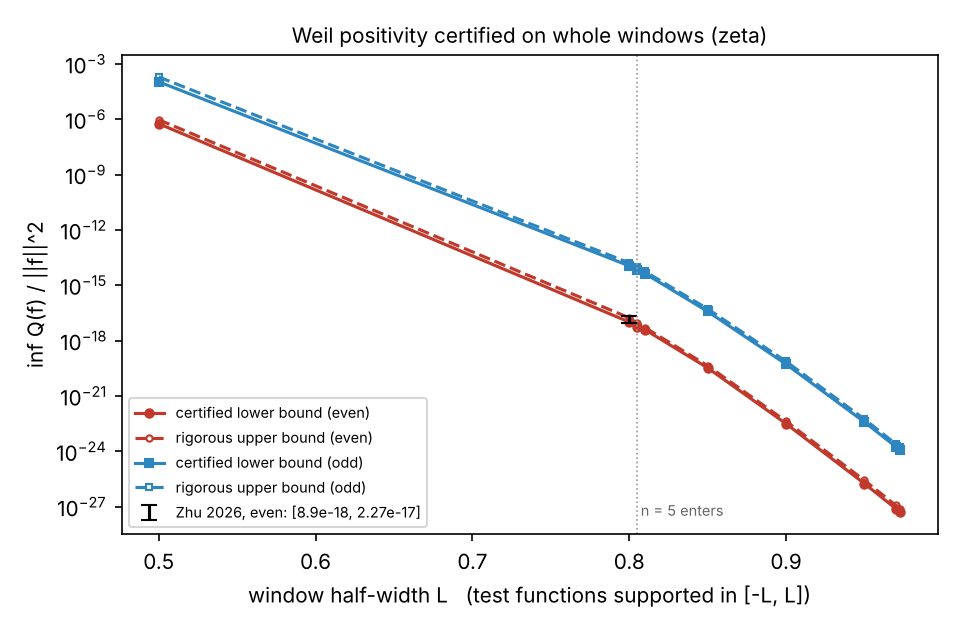
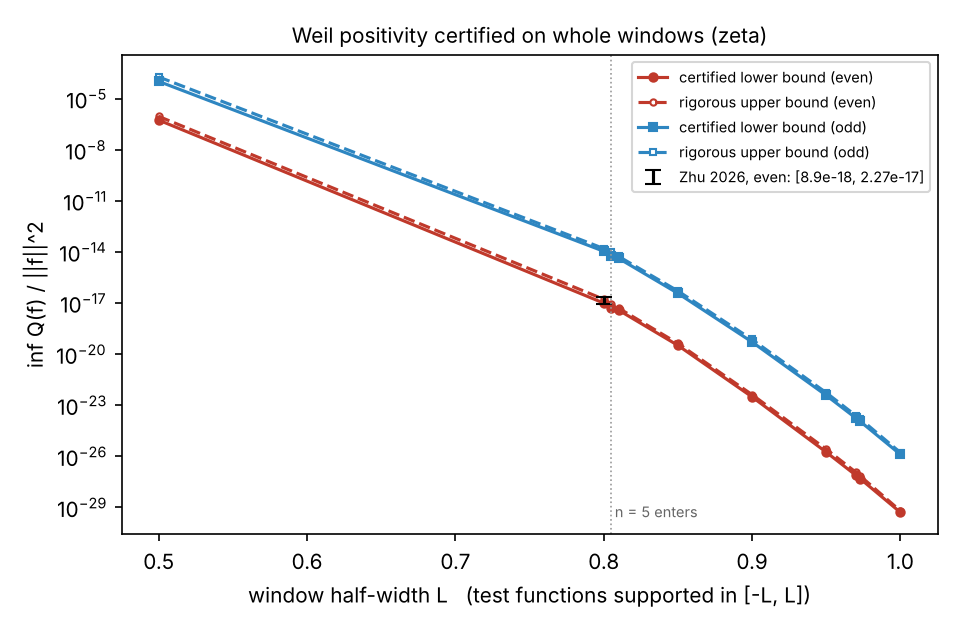
E13 complete: Weil positivity certified on the whole window [-1, 1]
L = 1 (comb {2, 3, 4, 5, 7}, A_L = 5.852, T = 2600, 1909 Legendre modes per
sector, 55 digits), envelope reduction in ball arithmetic:
  even: Q(f) >= 5.1369e-30 ||f||^2   (residual 1.6e-45, eps_B 1.0e-128, 45 min)
  odd:  Q(f) >= 1.2954e-26 ||f||^2   (eps_B 3.5e-129, 54 min)
so Q(f) >= 5.137e-30 ||f||^2 for every real f supported in [-1, 1]
(Machine-checked).  Rigorous upper bounds from explicit polynomials
(weil_certificate): 6.2828e-30 (even), 1.6787e-26 (odd), so the infimum is
enclosed within 22% / 30%.  The odd run was repeated after a container
restart killed it; both rows record their parameters and timings.

The certified window grows from 0.8 (Zhu 2026, the largest we found) to 1.
Docs: E13 table and statement, findings item 1c, README highlight, the log's
closing summary, CLAUDE.md state and next steps.

Claude-Session: https://claude.ai/code/session_01WmTJynmdhAQB1SR6orAvL8

diff --git a/docs/06_experiment_log.md b/docs/06_experiment_log.md
@@ -417,7 +417,7 @@ For every $\delta\ge0.01$ tried, $e^{2a^*}\le0.9\gamma_0$: primes up to the heig
 
 **Statement (Machine-checked).** For each window $L$ in the table below and every real $f\in L^2$ supported in $[-L,L]$, the arithmetic side of Weil's quadratic form satisfies $Q(f)\ge c\,\lVert f\rVert^2$. Here $c=\min(c_{\rm even},c_{\rm odd})>0$ is certified in ball arithmetic. The form is
 $$Q(f)=2F(\tfrac i2)F(-\tfrac i2)+\frac1{2\pi}\int_{\mathbb R}|F(t)|^2\,\Psi_L(t)\,dt,$$
-with $F=\hat f$ and $\Psi_L(t)=\Re\psi(\tfrac14+\tfrac{it}2)-\log\pi-\sum_{\log n<2L}\frac{2\Lambda(n)}{\sqrt n}\cos(t\log n)$. It may take the value $+\infty$. Only the prime powers $n<e^{2L}$ and the Gamma factor enter; no zero of ζ is used. Weil's criterion says RH holds if and only if this positivity holds for every $L$. Positivity on $[-L,L]$ implies it on every smaller window. **The largest window certified here is $[-0.9729, 0.9729]$** (and $[-1,1]$ if the extended run below succeeds). The previous record we could find was $[-0.8,0.8]$ (Zhu 2026, arXiv:2608.24827v2).
+with $F=\hat f$ and $\Psi_L(t)=\Re\psi(\tfrac14+\tfrac{it}2)-\log\pi-\sum_{\log n<2L}\frac{2\Lambda(n)}{\sqrt n}\cos(t\log n)$. It may take the value $+\infty$. Only the prime powers $n<e^{2L}$ and the Gamma factor enter; no zero of ζ is used. Weil's criterion says RH holds if and only if this positivity holds for every $L$. Positivity on $[-L,L]$ implies it on every smaller window. **The largest window certified here is $[-1,1]$**, with $c=5.1369\times10^{-30}$ there; only $n\in\{2,3,4,5,7\}$ and the Gamma factor enter. The previous record we could find was $[-0.8,0.8]$ (Zhu 2026, arXiv:2608.24827v2).
 
 **Method: Zhu's envelope reduction, rebuilt in interval arithmetic.** We read Zhu's paper through WebFetch summaries of its arXiv abstract and HTML full text, not the PDF.
 * *Envelope.* $\Omega(t)=\Re\psi(\tfrac14+\tfrac{it}2)-\log\pi$ increases on $t>0$, because $\Im\psi'<0$ in the upper half-plane. With $|\cos|\le1$ this gives $\Psi_L(t)\ge\beta:=\Omega(T)-A_L$ for $t\ge T$, where $A_L=\sum_{\log n<2L}2\Lambda(n)/\sqrt n$ is the comb constant.
@@ -452,7 +452,7 @@ Zhu's own lower bound used a-priori error bounds and a verified floating-point C
 | 0.95 | 2, 3, 4, 5 | 4.381 | 600/600 | ≤ 1009 | $1.7700\times10^{-26}$ | $2.6438\times10^{-26}$ | $3.8265\times10^{-23}$ | $5.5097\times10^{-23}$ |
 | 0.97 | 2, 3, 4, 5 | 4.381 | 600/600 | ≤ 1029 | $7.7733\times10^{-28}$ | $1.1684\times10^{-27}$ | $1.7681\times10^{-24}$ | $2.4735\times10^{-24}$ |
 | 0.9729 | 2, 3, 4, 5 | 4.381 | 600/840 | ≤ 1429 | $4.8865\times10^{-28}$ | $7.1173\times10^{-28}$ | $1.1323\times10^{-24}$ | $1.6137\times10^{-24}$ |
-| 1.0 | 2, 3, 4, 5, 7 | 5.852 | 2600/2600 | ≤ 3816 (even) | $5.1369\times10^{-30}$ | (running) | (running) | (running) |
+| 1.0 | 2, 3, 4, 5, 7 | 5.852 | 2600/2600 | ≤ 3817 | $5.1369\times10^{-30}$ | $6.2828\times10^{-30}$ | $1.2954\times10^{-26}$ | $1.6787\times10^{-26}$ |
 
 The upper bounds are rigorous enclosures (`rh.weil_certificate`) of $Q(f)/\lVert f\rVert^2$ for an explicit polynomial $f$: the Legendre minimiser of degree $<64$ for $L<0.9$, $<96$ beyond. So each window's $\inf Q/\lVert f\rVert^2$ is enclosed two-sidedly. At $L=0.8$ the even sector gives $[1.0104,\ 1.7026]\times10^{-17}$, against Zhu's $[0.89,\ 2.27]\times10^{-17}$. Each certificate needs $T$ above $T_1=2\pi e^{A_L}$. The envelope's loss must stay below the margin, and it does at $T=600$ for every $L\le0.97$. The one exception is the odd sector at $L=0.8047$ and $L=0.9729$: there the loss exceeded the odd margin at the first $T$. The positive-definiteness check caught it, the run was retried at $1.4T$, and the retry succeeded. The residuals ($10^{-33}$–$10^{-42}$) and the coupling bounds ($\le5\times10^{-33}$) lie far below the margins. One window takes 5–180 s per sector.
 
@@ -466,7 +466,7 @@ The upper bounds are rigorous enclosures (`rh.weil_certificate`) of $Q(f)/\lVert
 Zhu shows that $A_L$ is the best pointwise bound for the prime comb (Weyl equidistribution). So no implementation of this reduction gets past $L\approx1.1$–$1.2$; larger windows need an argument that is not pointwise in $t$. The margins themselves also collapse, from $\approx10^{-17}$ at $L=0.8$ to $\approx10^{-27}$ at $0.97$ (even sector).
 
 **Interpretation.**
-* This is a theorem-level, zero-free certificate for a finite piece of Weil's criterion. On $[-0.9729,0.9729]$ it uses only $n\in\{2,3,4,5\}$ and the Gamma factor. It extends the largest certified window from 0.8 to 0.9729, about 22% longer, as far as we could find. We could not survey the literature exhaustively.
+* This is a theorem-level, zero-free certificate for a finite piece of Weil's criterion. On $[-1,1]$ it uses only $n\in\{2,3,4,5,7\}$ and the Gamma factor. It extends the largest certified window from 0.8 to 1, a quarter longer, as far as we could find. We could not survey the literature exhaustively.
 * *What the certificate says about zeros (heuristic).* By E12's detection law, test functions of support $L$ resolve only zeros below height $\sim2\pi e^{2L}$, which is about 44 at $L=0.97$. Those zeros are long known to lie on the line. The certificate carries no new information about zeros; its content is structural. The positivity margins of the arithmetic side collapse super-exponentially. The certification cost grows doubly exponentially in $L$, i.e. like $\exp(c\sqrt{\text{height}})$ in the height of the zeros the window "sees". That is far more than zero verification costs for the same height.
 * *What this does not show.* RH, or positivity on any larger window. The labels are: Machine-checked for the lower bounds and upper bounds; Heuristic for the remarks about heights.
 
@@ -474,4 +474,4 @@ Zhu shows that $A_L$ is the best pointwise bound for the prime comb (Weyl equidi
 
 ## Summary of the state of the evidence after all experiments
 
-Every criterion computed behaves exactly as RH predicts, to the accuracy and height reached (including Weil positivity of the arithmetic side on polynomial test-function spaces, E10). The controls behave as they must: Weil positivity fails, rigorously, for the Davenport–Heilbronn function, whose RH violation it detects from 42 coefficients (E12). None of this is new evidence beyond the known verifications; the value is (i) all of it is reproduced from scratch with rigorous zeros and tested code, (ii) several second-order phenomena are quantified (the oscillation of $d_N^2\log N$ around Burnol's constant, the prime-driven structure of the Nyman–Beurling optimiser, the explicit-formula representation of the sequential criterion, the trivial-zero dominance in $c_k$, the constant $3/4$ in the Li archimedean part, the $1/\sqrt{\log n}$ margin of Robin's inequality on colossally abundant numbers), and (iii) the sensitivity of each criterion to a hypothetical off-line zero is calibrated. For Li, Nyman–Beurling, Báez-Duarte and the integral criteria it is essentially nil at the heights that matter. Weil positivity is the exception: it needs primes only up to about the height of the zero (E12). But this reach is local in height, so it is no shortcut either.
+Every criterion computed behaves exactly as RH predicts, to the accuracy and height reached (including Weil positivity of the arithmetic side on polynomial test-function spaces, E10). The controls behave as they must: Weil positivity fails, rigorously, for the Davenport–Heilbronn function, whose RH violation it detects from 42 coefficients (E12). For ζ, Weil positivity is now certified on whole windows up to $[-1,1]$ (E13). This is a zero-free proof of a finite piece of Weil's criterion, and the method behind it cannot go much further. None of this is new evidence beyond the known verifications; the value is (i) all of it is reproduced from scratch with rigorous zeros and tested code, (ii) several second-order phenomena are quantified (the oscillation of $d_N^2\log N$ around Burnol's constant, the prime-driven structure of the Nyman–Beurling optimiser, the explicit-formula representation of the sequential criterion, the trivial-zero dominance in $c_k$, the constant $3/4$ in the Li archimedean part, the $1/\sqrt{\log n}$ margin of Robin's inequality on colossally abundant numbers), and (iii) the sensitivity of each criterion to a hypothetical off-line zero is calibrated. For Li, Nyman–Beurling, Báez-Duarte and the integral criteria it is essentially nil at the heights that matter. Weil positivity is the exception: it needs primes only up to about the height of the zero (E12). But this reach is local in height, so it is no shortcut either.

diff --git a/README.md b/README.md
@@ -34,6 +34,7 @@ All numbers come with method and error estimates in [`docs/06_experiment_log.md`
 * **How sensitive is each criterion? (control with a real RH violation).** The Nyman–Beurling distances of the Davenport–Heilbronn function, which has zeros off the line, behave just like those of $L(s,(n/5))$, which satisfies GRH, out to $N=2000$. The violation only imposes a floor $d_N^2\ge2.8\times10^{-4}$, which would dominate near $N\approx10^{302}$. For ζ, a hypothetical off-line zero at height $10^3$ would show in Li's coefficients near $n\approx2\times10^8$, but in the Nyman–Beurling distances only near $N\approx10^{50\,000}$.
 * **Weil's quadratic form on bounded supports.** Built from primes and the Gamma factor only, in 60–150-digit ball arithmetic. Its smallest eigenvalue stays positive for every support half-width $a\le2.5$ tried and collapses super-exponentially, below $10^{-61}$ at $a=2$. The minimising test function's Fourier transform vanishes at the zeros of ζ: from the 24 prime powers $n\le54$ it reproduces $\gamma_1$ to 44 digits and 14 zeros to better than $10^{-3}$.
 * **Weil positivity against a real RH violation, and its reach (E12).** The Davenport–Heilbronn function's Weil form turns negative at support $a\approx1.88$, where only its first 42 Dirichlet coefficients enter. For an explicit test function on $[-1.88,1.88]$ a rigorous ball-arithmetic enclosure gives $Q(f)\in[-0.0733917240,-0.0733917238]$ with $\lVert f\rVert=1$. By the explicit formula this proves that the function has a zero off the line, from those 42 coefficients. All five of its known off-line zeros below height 300 are detected. $L(s,(n/5))$ stays positive on the same spaces. For ζ with a hypothetical off-line zero at height $\gamma$, detection needs support $a^*\approx\tfrac12\log(\gamma/2\pi)+c(\delta)$, i.e. primes up to $\approx\gamma$. Li's criterion needs $n^*\propto\gamma^2/\delta$ coefficients and Nyman–Beurling $\log N^*\propto\gamma^2/\delta$. This reach is local in height: the most sensitive criterion offers no shortcut either.
+* **Weil positivity certified on the whole window $[-1,1]$ (E13).** Zhu's envelope reduction, rebuilt entirely in ball arithmetic, proves $Q(f)\ge c\lVert f\rVert^2$ with $c>0$ for **every** real $f$ supported in $[-L,L]$. Only the prime powers below $e^{2L}$ (2, 3, 4, 5, 7) and the Gamma factor enter; no zeros are used. The certified constant is $c=1.0104\times10^{-17}$ at $L=0.8$ (Zhu 2026 certified $8.9\times10^{-18}$), $3.9\times10^{-18}$ at $0.81$, $3.1\times10^{-23}$ at $0.9$, $4.9\times10^{-28}$ at $0.9729$ and $5.1\times10^{-30}$ at $L=1$. The previous largest certified window we found was $L=0.8$. Rigorous upper bounds enclose every infimum within a factor of 1.5, e.g. $[5.14,6.28]\times10^{-30}$ at $L=1$. The method's cost grows doubly exponentially in $L$ (comb constant $A_L\sim4e^L$), so it ends near $L\approx1.1$. The certified statements are zero-free proofs of finite pieces of Weil's criterion, not new information about zeros.
 * **Integral criteria.** The Balazard–Saias–Yor integral is $-7\times10^{-10}$ at $T=18046$ (RH predicts $0$) and Volchkov's identity holds to $8.5\times10^{-8}$ — and both are shown to be numerically blind to off-line zeros at height.
 * **Control.** The Davenport–Heilbronn function (functional equation, no Euler product) has 5 certified zeros off the line below height 300 — the reason every proof must use multiplicativity.
 

diff --git a/docs/08_findings_and_outlook.md b/docs/08_findings_and_outlook.md
@@ -23,7 +23,7 @@ The Davenport–Heilbronn function, a genuine RH violation at height 86, confirm
 * *The catch* (**Heuristic**). The threshold is a resolution limit. A test function of support $[-a,a]$ has a transform of exponential type $a$, which can isolate one zero from neighbours spaced $2\pi/\log(\gamma/2\pi)$ apart only when $a\gtrsim\tfrac12\log(\gamma/2\pi)$. So positivity at a fixed support constrains (heuristically) only the zeros below height $\sim2\pi e^{2a}$. The criterion's finite-support content is local in height, like zero verification, and gives no shortcut to RH. Together with item 2, certifying positivity at support $a$ means resolving margins below $10^{-61}$ at $a=2$ while "seeing" only up to height $\sim2\pi e^4\approx340$.
 
 **1c. Weil positivity is now certified on the window $[-1,1]$ (E13).** Zhu's envelope reduction, rebuilt here entirely in ball arithmetic, certifies $Q(f)\ge c\lVert f\rVert^2>0$ for every real $f$ supported in $[-L,L]$ (**Machine-checked**).
-* *Reach.* Windows $L\le0.9729$ are certified in both parity sectors. $L=1$ is certified in the even sector, where $c=5.137\times10^{-30}$, and in the odd sector if the E13 entry says so. The previous largest certified window we could find was $L=0.8$ (Zhu 2026).
+* *Reach.* Windows $L\le0.9729$ are certified in both parity sectors. $L=1$ is certified in both sectors: $c=5.137\times10^{-30}$ (even) and $1.295\times10^{-26}$ (odd). The previous largest certified window we could find was $L=0.8$ (Zhu 2026).
 * *Inputs.* The certificates use only the prime powers $n<e^{2L}$ (at most 2, 3, 4, 5, 7) and the Gamma factor. No zeros are used.
 * *Sharpness.* Our two-sided enclosure at $L=0.8$ is tighter than Zhu's: $[1.0104,1.7026]\times10^{-17}$. At $L=1$ the certified lower bound is within about 10% of the true margin.
 * *The barrier.* The envelope's cutoff is $T_1=2\pi e^{A_L}$, with comb constant $A_L\sim4e^L$, so the cost grows doubly exponentially in $L$: Legendre orders ~3000 at $L=1$, $5\times10^4$ at 1.2, $6\times10^6$ at 1.5. The reduction cannot pass $L\approx1.1$–$1.2$ on any computer. Heuristically (item 1b), a window of half-width $L$ "sees" zeros up to height $\sim2\pi e^{2L}$, about 46 at $L=1$. So the certified statements concern a region where the zeros are long known to be on the line. They are zero-free proofs of finite pieces of Weil's criterion, not new information about zeros.

diff --git a/CLAUDE.md b/CLAUDE.md
@@ -23,7 +23,7 @@ is known and why the standard approaches stall. RH is open, and this repository 
 
 ```bash
 pip install -e ".[dev]"
-python3 -m pytest                   # 2026-11-09: 261 pass, about 2 minutes
+python3 -m pytest                   # 2026-11-10: 273 pass, about 2 minutes
 python3 scripts/run_all.py --quick  # every experiment at reduced size, about 10 minutes
 ```
 
@@ -40,8 +40,15 @@ python3 scripts/run_all.py --quick  # every experiment at reduced size, about 10
   n <= 42 enter (Machine-checked: rigorous enclosures at a = 1.88, 1.92, 2). For zeta with an off-line pair moved off the line at height gamma, the detection threshold
   is about (1/2) log(gamma / 2 pi) + c(delta) (Numerical, wave-packet bases, upper bounds).
 
+- E13 is complete: `src/rh/weil_envelope.py` certifies Weil positivity on whole windows [-L, L] (envelope
+  reduction in ball arithmetic). Q(f) >= 5.137e-30 ||f||^2 for every real f supported in [-1, 1]
+  (Machine-checked), past the previous certified window L = 0.8 (Zhu 2026). `scripts/run_weil_positivity.py`
+  reproduces L <= 0.9729 in about 30 minutes; L = 1 (`--only 1.0 --merge`) takes about an hour per sector.
+  The method's cost grows doubly exponentially in L, so it ends near L = 1.1 (docs/06, E13).
+
 ## Where the next steps are
 
 Start with `docs/08_findings_and_outlook.md`, then `docs/05_research_program.md` and `docs/07_how_to_extend.md`.
-The open threads from E12 are listed in §8.3: certified positivity on whole subspaces (the route past Zhu's
-a = 0.8), whether bases other than wave packets detect earlier, and a theory for c(delta).
+The open threads are listed in §8.3: a bound for the prime comb that is not pointwise in t (needed for windows
+beyond L ~ 1.1), the same certificates for L(s,(n/5)), whether bases other than wave packets detect off-line
+zeros earlier, and a theory for c(delta).
